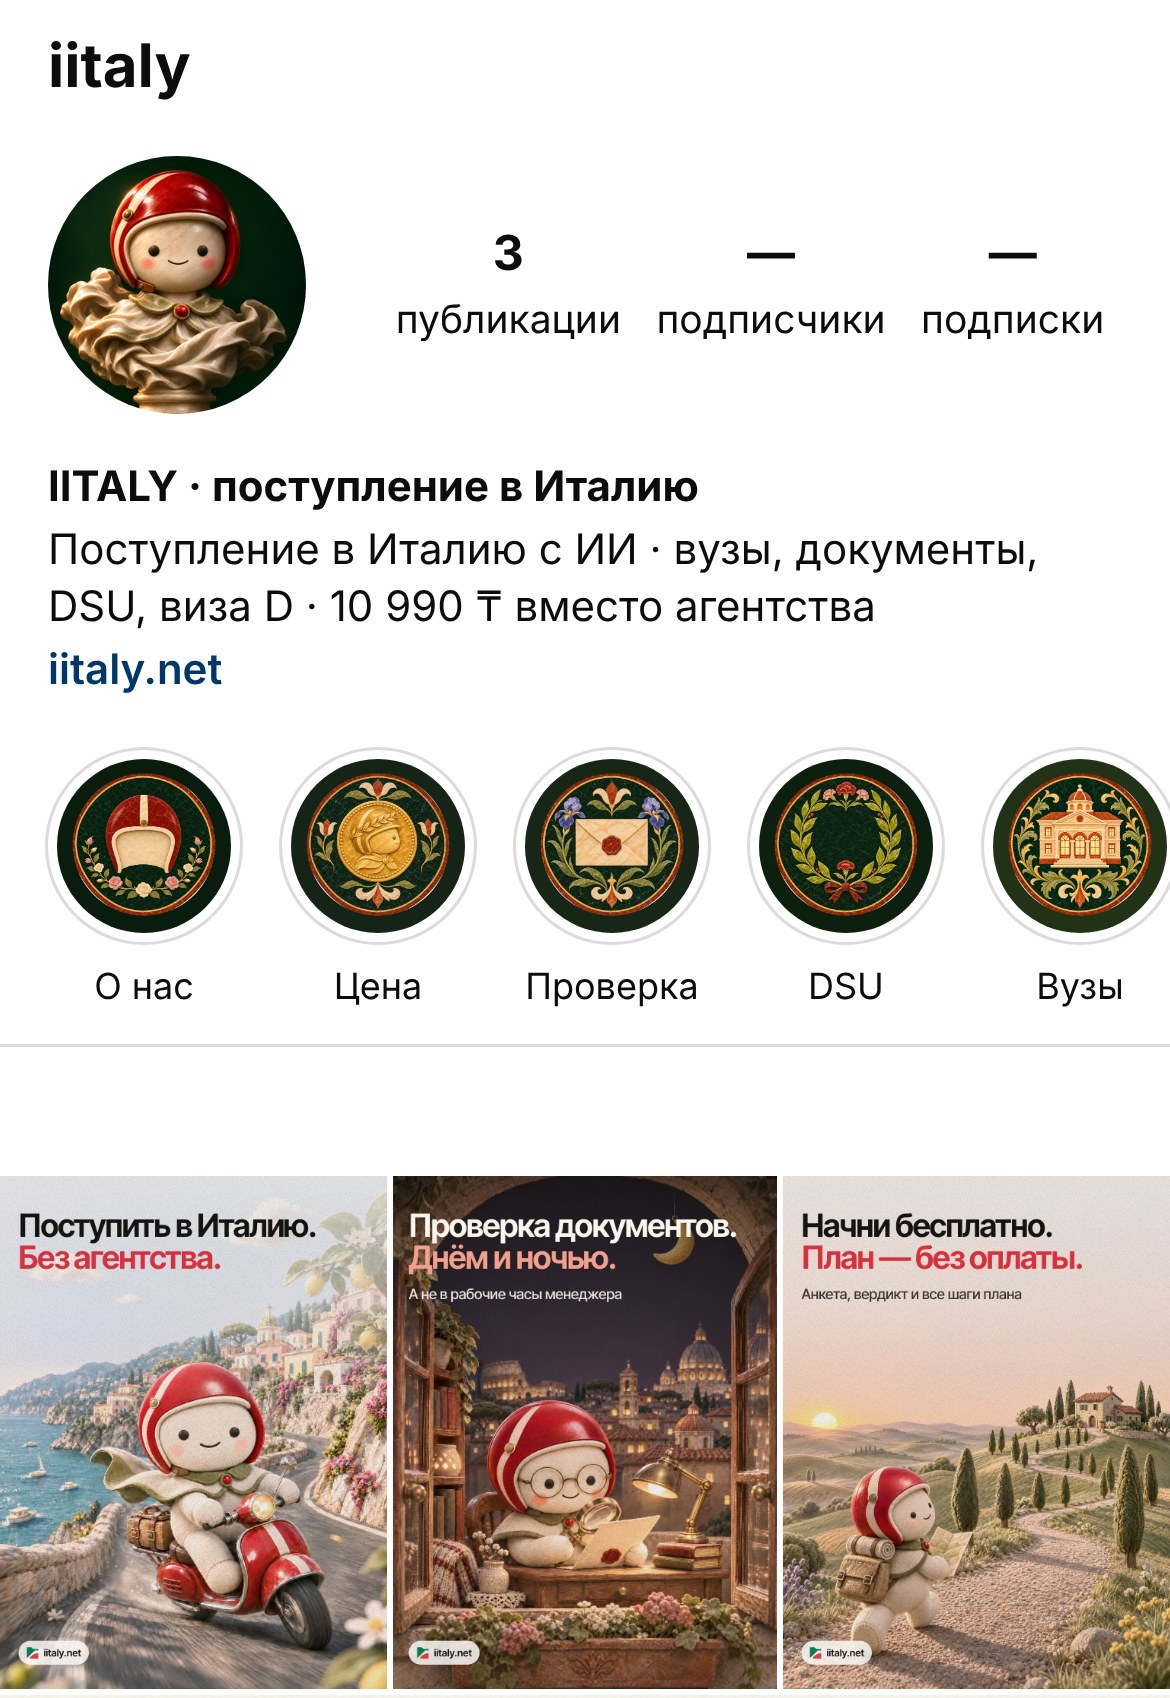
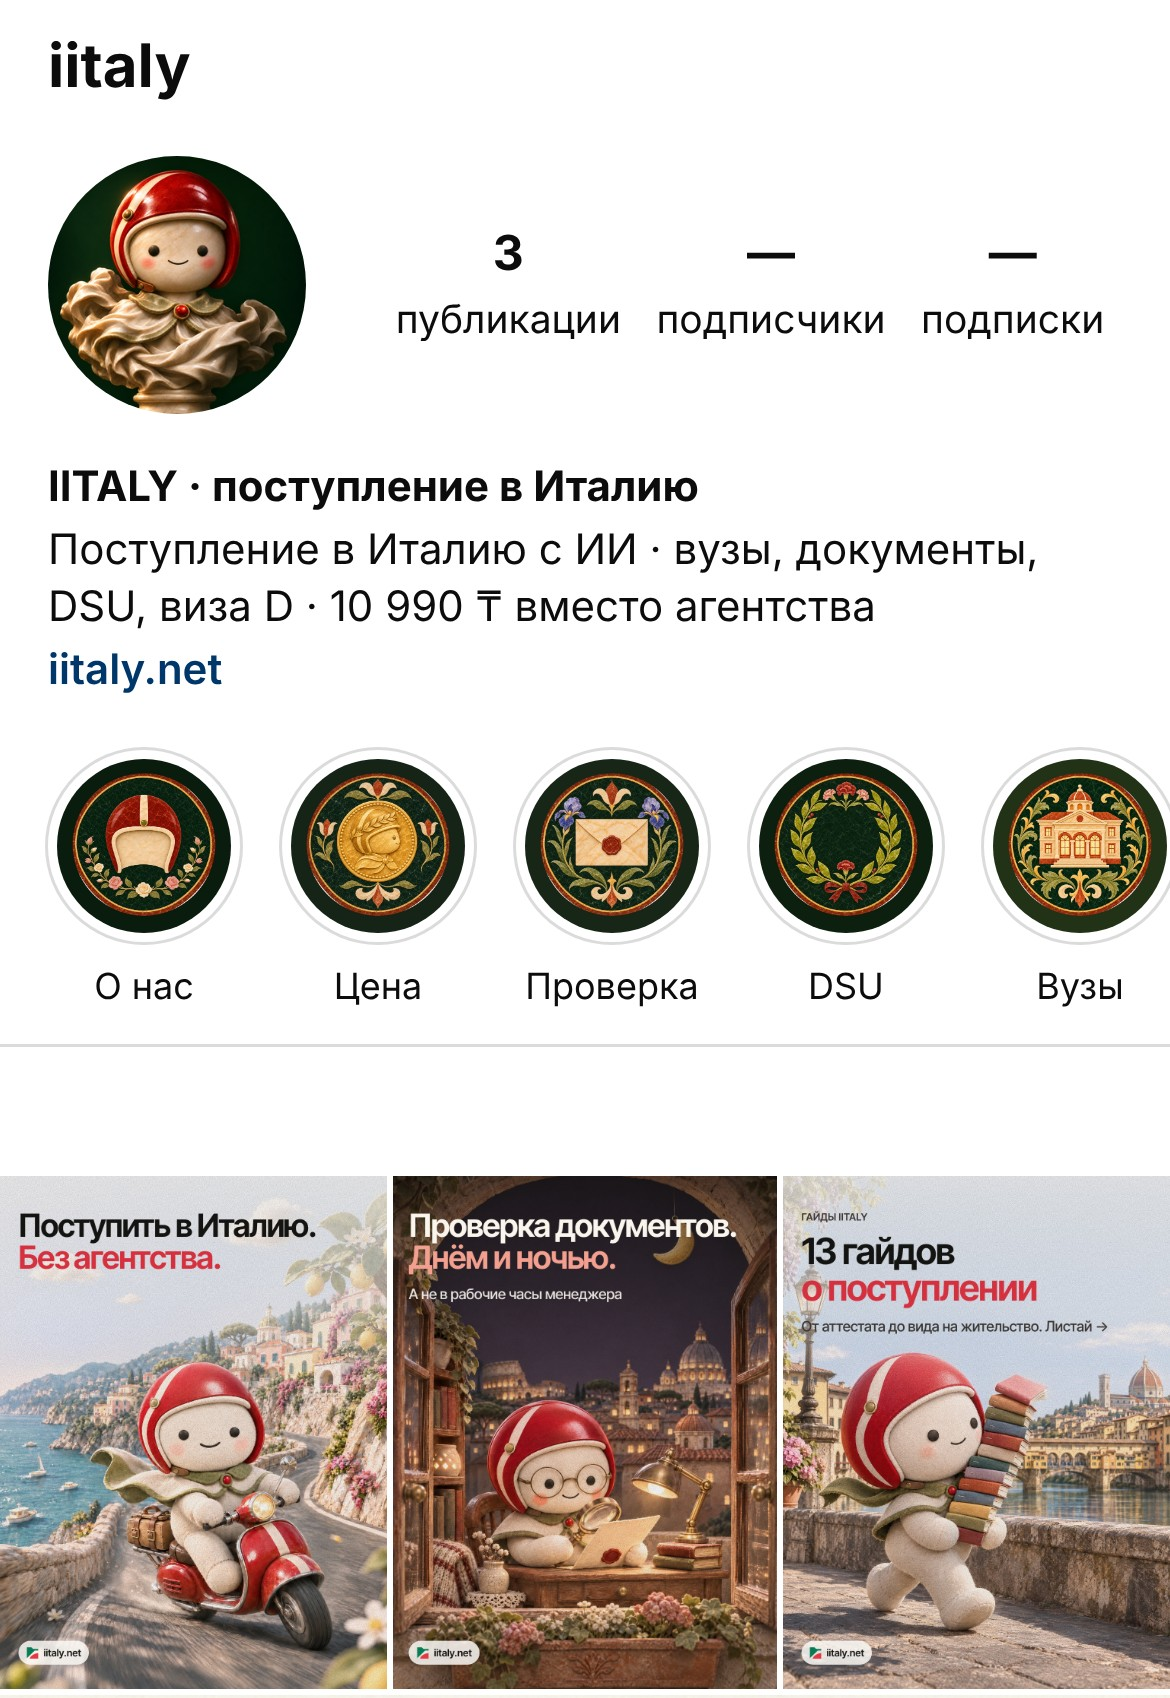
Instagram post 3: the 13 guides, each topic with its own Vespi scene in Italy (#297)
Owner, 24 Nov: «третий пост сделай типа упор на гайды… делай под них
иллюстрации… пропорции Веспи… динамичные, открытые… всё в Италии».

Post 3 has ten slides: a cover «13 гайдов о поступлении» (Vespi with a
stack of guides on the Arno), eight topic slides covering all 13 guides,
each marked free or in the route and set in its own city, and the closing
«5 гайдов — бесплатно целиком» with the Roman forum consul. Caption, slide
table, alt text, job IDs and profile previews are updated; the old m31–m33
scenes are removed.

Claude-Session: https://claude.ai/code/session_01EJf3uoJW8TN46ucPCkbbdr

Changed region(s): [[0.6462, 0.6867, 1.0, 0.9988]]

diff --git a/design/social/README.md b/design/social/README.md
@@ -61,7 +61,7 @@ Higgsfield по ссылкам `rawUrl` из манифеста. У вариан
 |---|---|---|
 | 1 | `post1-1…5` | знакомство: без агентства, 43 вуза, документы, DSU, цена |
 | 2 | `post2-1…4` | проверка документов: днём и ночью, 10–30 секунд, без лимита, первая бесплатно |
-| 3 | `post3-1…4` | начни бесплатно: план, 5 гайдов, одна проверка, весь маршрут за 10 990 ₸ |
+| 3 | `post3-1…10` | 13 гайдов: по слайду на тему, 5 бесплатно целиком, все — в маршруте за 10 990 ₸ |
 
 Номер сцены — пост и слайд: `s11` — пост 1, слайд 1.
 
@@ -174,30 +174,40 @@ Alt-текст обложки: Ночь в Риме за арочным окно
 с сургучной печатью через лупу. Надпись: «Проверка документов. Днём и
 ночью.»
 
-## Пост 3 — начни бесплатно (4 слайда)
+## Пост 3 — 13 гайдов (10 слайдов)
 
-Подпись:
+Подпись (24 ноября, владелец: «третий пост сделай упор на гайды»):
 
 ```text
-Начни бесплатно.
+13 гайдов о поступлении в Италию — от аттестата до вида на жительство.
 
-Без оплаты и регистрации открыто:
-— анкета, вердикт и все шаги плана, первый шаг целиком
-— 5 гайдов целиком: аттестат и 12 лет, тесты и сроки, апостиль, перевод, DoV и CIMEA
-— одна проверка документа: вердикт и список замечаний
-— 3 вопроса ИИ-помощнику
-— все 43 вуза: карта, фильтры, сравнение
+Бесплатно и целиком:
+— Аттестат и 12 лет: хватит ли 11 классов
+— Тесты и сроки: CEnT-S и языковой сертификат
+— Апостиль
+— Перевод документов
+— DoV, CIMEA и ARDI: как Италия признаёт диплом
 
-Когда нужен весь маршрут — 10 990 ₸ один раз, без подписки: все шаги плана, проверки без лимита, 13 тем гайдов и 18 пунктов визы, кабинет с напоминаниями о сроках.
+В полном маршруте, 10 990 ₸ один раз:
+— Справки семьи
+— DSU и ISEEU: региональная стипендия
+— Виза D: 18 пунктов по шагам
+— Если ещё нет 18
+— Воинский учёт в Казахстане
+— Permesso di soggiorno
+— Codice fiscale
+— Страховка и поездки
+
+Без оплаты открыты и анкета с планом, и одна проверка документа.
 
 Ссылка в профиле: iitaly.net
 
 #учебавиталии #поступлениевиталию #италия #гайды #учебазарубежом #iitaly
 ```
 
-Alt-текст обложки: Тосканские холмы на рассвете, дорога с кипарисами
-петляет к домику на вершине; внизу маленький Веспи с рюкзаком и картой
-готов отправиться в путь. Надпись: «Начни бесплатно. План — без оплаты.»
+Alt-текст обложки: Флоренция, солнечная набережная Арно: Веспи шагает с
+высокой стопкой разноцветных книжек-гайдов, верхняя вот-вот соскользнёт; за
+рекой Понте-Веккьо и купол собора. Надпись: «13 гайдов о поступлении».
 
 ## Откуда что
 
